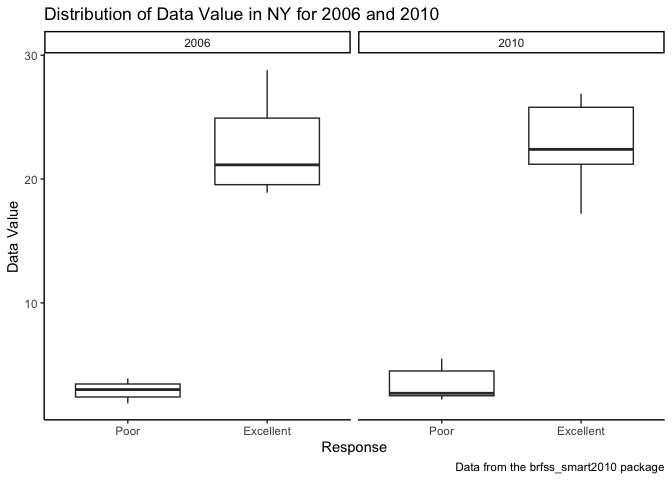
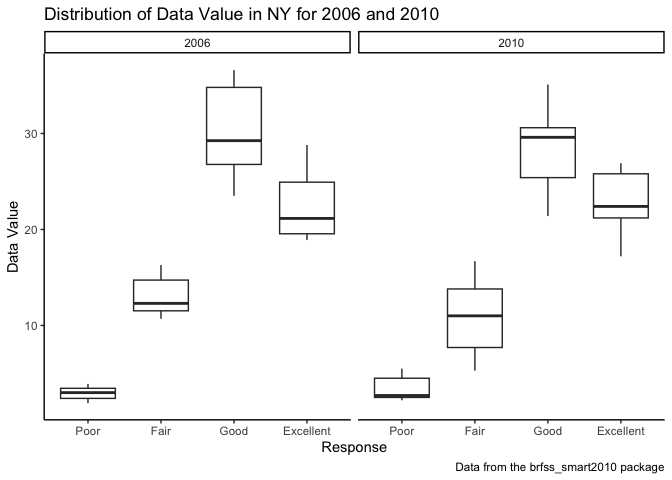
set up theme in the beginning

diff --git a/p8105_hw3_xz3173.md b/p8105_hw3_xz3173.md
@@ -3,6 +3,39 @@ p8105_hw3_xz3173
 Xue Zhang
 2023-10-05
 
+``` r
+library(tidyverse)
+```
+
+    ## ── Attaching core tidyverse packages ──────────────────────── tidyverse 2.0.0 ──
+    ## ✔ dplyr     1.1.3     ✔ readr     2.1.4
+    ## ✔ forcats   1.0.0     ✔ stringr   1.5.0
+    ## ✔ ggplot2   3.4.3     ✔ tibble    3.2.1
+    ## ✔ lubridate 1.9.2     ✔ tidyr     1.3.0
+    ## ✔ purrr     1.0.2     
+    ## ── Conflicts ────────────────────────────────────────── tidyverse_conflicts() ──
+    ## ✖ dplyr::filter() masks stats::filter()
+    ## ✖ dplyr::lag()    masks stats::lag()
+    ## ℹ Use the conflicted package (<http://conflicted.r-lib.org/>) to force all conflicts to become errors
+
+``` r
+knitr::opts_chunk$set(
+  fig.width = 6,
+  fig.asp = .6,
+  out.width = "90%"
+)
+
+theme_set(theme_minimal() + theme(legend.position = "bottom"))
+
+options(
+  ggplot2.continuous.colour = "viridis",
+  ggplot2.continuous.fill = "viridis"
+)
+
+scale_colour_discrete = scale_colour_viridis_d
+scale_fill_discrete = scale_fill_viridis_d
+```
+
 # Problem 1
 
 Load the datasets.
@@ -87,11 +120,10 @@ instacart |>
   labs(title = "Number of Items Ordered in Each Aisle",
        x = "Aisle",
        y = "Number of Items Ordered",
-       caption = "Data from the instacart package") +
-  theme(legend.position = "bottom")
+       caption = "Data from the instacart package") 
 ```
 
-![](p8105_hw3_xz3173_files/figure-gfm/unnamed-chunk-4-1.png)<!-- -->
+<img src="p8105_hw3_xz3173_files/figure-gfm/unnamed-chunk-5-1.png" width="90%" />
 
 - Make a table showing the three most popular items in each of the
   aisles “baking ingredients”, “dog food care”, and “packaged vegetables
@@ -196,11 +228,11 @@ brfss_smart2010 = brfss_smart2010 |>
   filter(topic == "Overall Health") |>
   
   # include only responses from “Excellent” to “Poor”
-  filter(response %in% c("Excellent", "Poor")) |>
+  filter(response %in% c("Excellent", "Very Good", "Good", "Fair", "Poor")) |>
   
   # organize responses as a factor taking levels ordered from “Poor” to “Excellent”
   mutate(response = factor(response, 
-                           levels = c("Poor", "Excellent"),
+                           levels = c("Poor", "Fair", "Good", "Very Good", "Excellent"),
                            ordered = TRUE))
 ```
 
@@ -210,37 +242,54 @@ brfss_smart2010 = brfss_smart2010 |>
 ``` r
 brfss_smart2010 |>
   group_by(year, locationabbr) |>
-  summarise(n_locations = n_distinct(locationdesc)) |>
-  filter((year == 2002 | year == 2010) & n_locations >= 7)
+  summarize(n_locations = n_distinct(locationdesc)) |>
+  filter(year == 2002,
+         n_locations >= 7)
 ```
 
     ## `summarise()` has grouped output by 'year'. You can override using the
     ## `.groups` argument.
 
-    ## # A tibble: 20 × 3
-    ## # Groups:   year [2]
+    ## # A tibble: 6 × 3
+    ## # Groups:   year [1]
+    ##    year locationabbr n_locations
+    ##   <int> <chr>              <int>
+    ## 1  2002 CT                     7
+    ## 2  2002 FL                     7
+    ## 3  2002 MA                     8
+    ## 4  2002 NC                     7
+    ## 5  2002 NJ                     8
+    ## 6  2002 PA                    10
+
+``` r
+brfss_smart2010 |>
+  group_by(year, locationabbr) |>
+  summarize(n_locations = n_distinct(locationdesc)) |>
+  filter(year == 2010,
+         n_locations >= 7)
+```
+
+    ## `summarise()` has grouped output by 'year'. You can override using the
+    ## `.groups` argument.
+
+    ## # A tibble: 14 × 3
+    ## # Groups:   year [1]
     ##     year locationabbr n_locations
     ##    <int> <chr>              <int>
-    ##  1  2002 CT                     7
-    ##  2  2002 FL                     7
-    ##  3  2002 MA                     8
-    ##  4  2002 NC                     7
-    ##  5  2002 NJ                     8
-    ##  6  2002 PA                    10
-    ##  7  2010 CA                    12
-    ##  8  2010 CO                     7
-    ##  9  2010 FL                    41
-    ## 10  2010 MA                     9
-    ## 11  2010 MD                    12
-    ## 12  2010 NC                    12
-    ## 13  2010 NE                    10
-    ## 14  2010 NJ                    19
-    ## 15  2010 NY                     9
-    ## 16  2010 OH                     8
-    ## 17  2010 PA                     7
-    ## 18  2010 SC                     7
-    ## 19  2010 TX                    16
-    ## 20  2010 WA                    10
+    ##  1  2010 CA                    12
+    ##  2  2010 CO                     7
+    ##  3  2010 FL                    41
+    ##  4  2010 MA                     9
+    ##  5  2010 MD                    12
+    ##  6  2010 NC                    12
+    ##  7  2010 NE                    10
+    ##  8  2010 NJ                    19
+    ##  9  2010 NY                     9
+    ## 10  2010 OH                     8
+    ## 11  2010 PA                     7
+    ## 12  2010 SC                     7
+    ## 13  2010 TX                    16
+    ## 14  2010 WA                    10
 
 - Construct a dataset that is limited to Excellent responses, and
   contains, year, state, and a variable that averages the data_value
@@ -265,12 +314,10 @@ ggplot(excellent_df, aes(x = year, y = average_value, group = locationabbr, colo
   labs(title = "Average Value Over Time for 'Excellent' Response", 
        x = "Year", 
        y = "Average Value",
-       caption = "Data from the brfss_smart2010 package") +
-  theme_classic() +
-  theme(legend.position = "bottom")
+       caption = "Data from the brfss_smart2010 package") 
 ```
 
-![](p8105_hw3_xz3173_files/figure-gfm/unnamed-chunk-10-1.png)<!-- -->
+<img src="p8105_hw3_xz3173_files/figure-gfm/unnamed-chunk-12-1.png" width="90%" />
 
 - Make a two-panel plot showing, for the years 2006, and 2010,
   distribution of data_value for responses (“Poor” to “Excellent”) among
@@ -278,7 +325,8 @@ ggplot(excellent_df, aes(x = year, y = average_value, group = locationabbr, colo
 
 ``` r
 ny_df = brfss_smart2010 |>
-  filter(locationabbr == "NY" & (year == 2006 | year == 2010))
+  filter(locationabbr == "NY"  & (year == 2006 | year == 2010))
+
 
 ggplot(ny_df, aes(x = response, y = data_value)) +
   geom_boxplot() +
@@ -286,12 +334,10 @@ ggplot(ny_df, aes(x = response, y = data_value)) +
   labs(title = "Distribution of Data Value in NY for 2006 and 2010", 
        x = "Response", 
        y = "Data Value",
-       caption = "Data from the brfss_smart2010 package") +
-  theme_classic() +
-  theme(legend.position = "bottom")
+       caption = "Data from the brfss_smart2010 package")
 ```
 
-![](p8105_hw3_xz3173_files/figure-gfm/unnamed-chunk-11-1.png)<!-- -->
+<img src="p8105_hw3_xz3173_files/figure-gfm/unnamed-chunk-13-1.png" width="90%" />
 
 # Problem 3
 
@@ -395,7 +441,7 @@ ggplot(merged_df, aes(x = age, fill = sex)) +
        caption = "Data from the nhanes_covar and nhanes_accel datasets")
 ```
 
-![](p8105_hw3_xz3173_files/figure-gfm/unnamed-chunk-16-1.png)<!-- -->
+<img src="p8105_hw3_xz3173_files/figure-gfm/unnamed-chunk-18-1.png" width="90%" />
 
 Comment on these items.
 
@@ -430,7 +476,7 @@ ggplot(activity_df, aes(x = age, y = total_activity, color = sex)) +
 
     ## `geom_smooth()` using method = 'loess' and formula = 'y ~ x'
 
-![](p8105_hw3_xz3173_files/figure-gfm/unnamed-chunk-17-1.png)<!-- -->
+<img src="p8105_hw3_xz3173_files/figure-gfm/unnamed-chunk-19-1.png" width="90%" />
 
 Comment on your plot.
 
@@ -453,12 +499,10 @@ ggplot(inspection_activity, aes(x = Minute, y = Activity, color = sex)) +
   labs(title = "24-hour Activity Time Course by Education Level",
        x = "Time of Day",
        y = "Activity",
-       caption = "Data from the nhanes_covar and nhanes_accel datasets") +
-  theme_classic() +
-  theme(legend.position = "bottom")
+       caption = "Data from the nhanes_covar and nhanes_accel datasets") 
 ```
 
-![](p8105_hw3_xz3173_files/figure-gfm/unnamed-chunk-18-1.png)<!-- -->
+<img src="p8105_hw3_xz3173_files/figure-gfm/unnamed-chunk-20-1.png" width="90%" />
 
 Describe in words any patterns or conclusions you can make based on this
 graph; including smooth trends may help identify differences.
